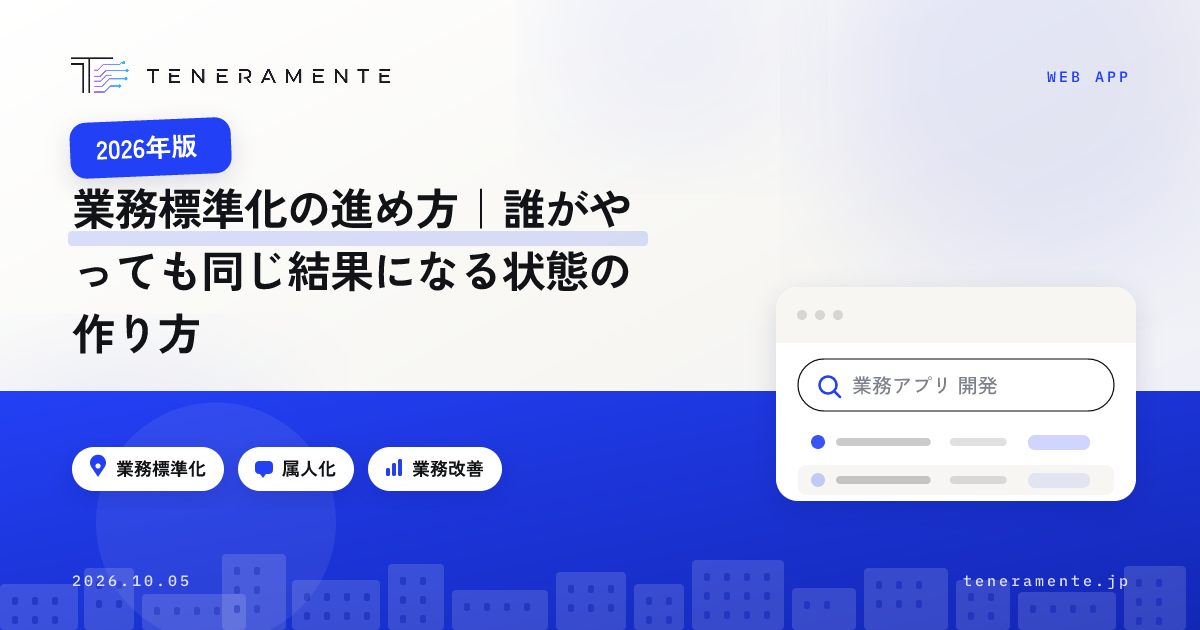
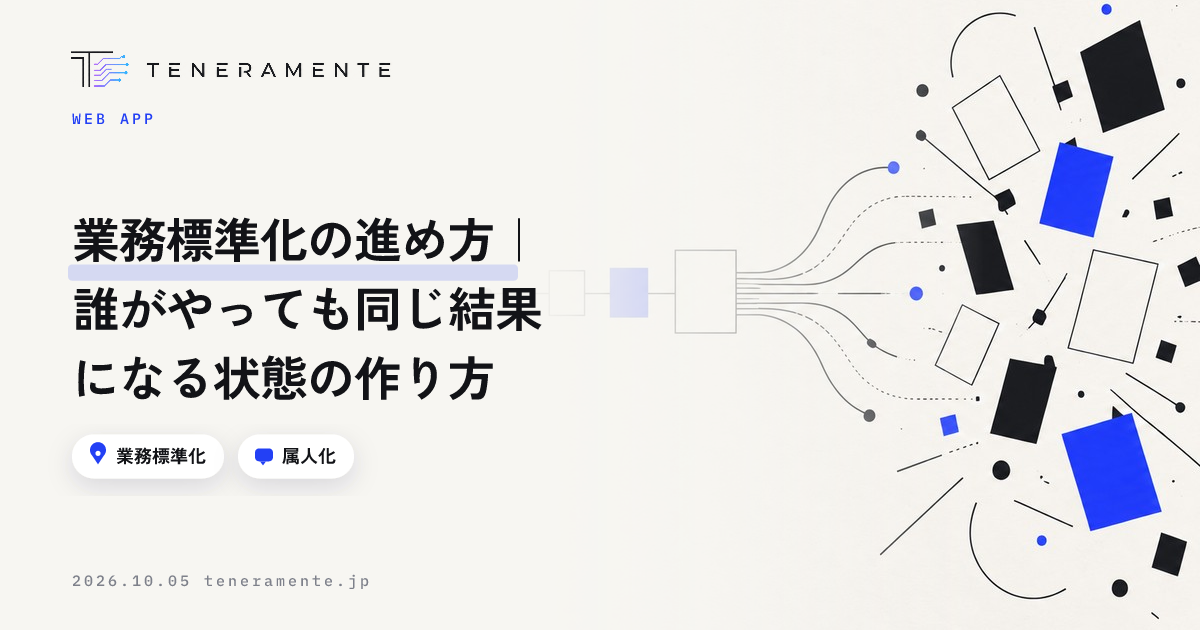
covers: 在庫が無いときもエディトリアルの背景画像を使う
coverTitle（ChatGPTの在庫）が無い記事は、日付で選ぶコード生成のレイアウトに
落ちていたため、青グラデ＋クリップアートのカバーが出ていた。背景の絵柄が
cover-bg に見つかる場合は photo レイアウトを使うようにする。
BG_BY_CATEGORY / COVER_BY_CATEGORY が全カテゴリを網羅しているため、実質
すべての記事が紙白×黒×青（ミエルームは緑）の絵柄になる。

本日分の2本のカバーを作り直し。既存記事のカバーは再生成されないため変更なし。

Claude-Session: https://claude.ai/code/session_01Qc5yuvfkLrZ6LBh9z9VjCX

diff --git a/scripts/gen-covers.js b/scripts/gen-covers.js
@@ -85,10 +85,6 @@ function findBg(name) {
   }
   return null;
 }
-/** その記事のためだけに置かれた画像があるか */
-function hasOwnBg(post) {
-  return !!findBg(post.slug);
-}
 const bgCache = new Map();
 function bgDataUri(post) {
   const file = findBg(post.slug)
@@ -104,9 +100,10 @@ function bgDataUri(post) {
 
 function coverSVG(post) {
   const date = String(post.date || '');
-  // 記事専用の背景が置かれていれば、その絵を必ず使う（日替わりの構図より優先）
+  // 背景の絵柄（記事専用／BG_BY_SLUG／カテゴリ共通のどれか）が見つかれば、その絵を使う。
+  // 絵が1枚も無いときだけ、日付で選ぶコード生成のレイアウトに落ちる。
   const variant = VARIANT_BY_SLUG[post.slug]
-    || (hasOwnBg(post) ? 'photo' : pickLayout(date));
+    || (bgDataUri(post) ? 'photo' : pickLayout(date));
   return buildCover({
     W, H,
     palette: PALETTE,

diff --git a/scripts/gen-covers-mieroom.js b/scripts/gen-covers-mieroom.js
@@ -90,9 +90,10 @@ function bgDataUri(p) {
 function coverSVG(p) {
   const date = String(p.date || '');
   const label = LABELS[p.category] || 'BLOG';
-  // 記事専用の背景が置かれていれば、その絵を必ず使う
+  // 背景の絵柄（記事専用／build-mieroom.js が決めた coverBg）が見つかれば、その絵を使う。
+  // 絵が1枚も無いときだけ、日付で選ぶコード生成のレイアウトに落ちる。
   const variant = VARIANT_BY_SLUG[p.slug]
-    || (findBg(p.slug) ? 'photo' : pickLayout(date, LAYOUT_OFFSET));
+    || (bgDataUri(p) ? 'photo' : pickLayout(date, LAYOUT_OFFSET));
   return buildCover({
     W, H,
     palette: PALETTE,
